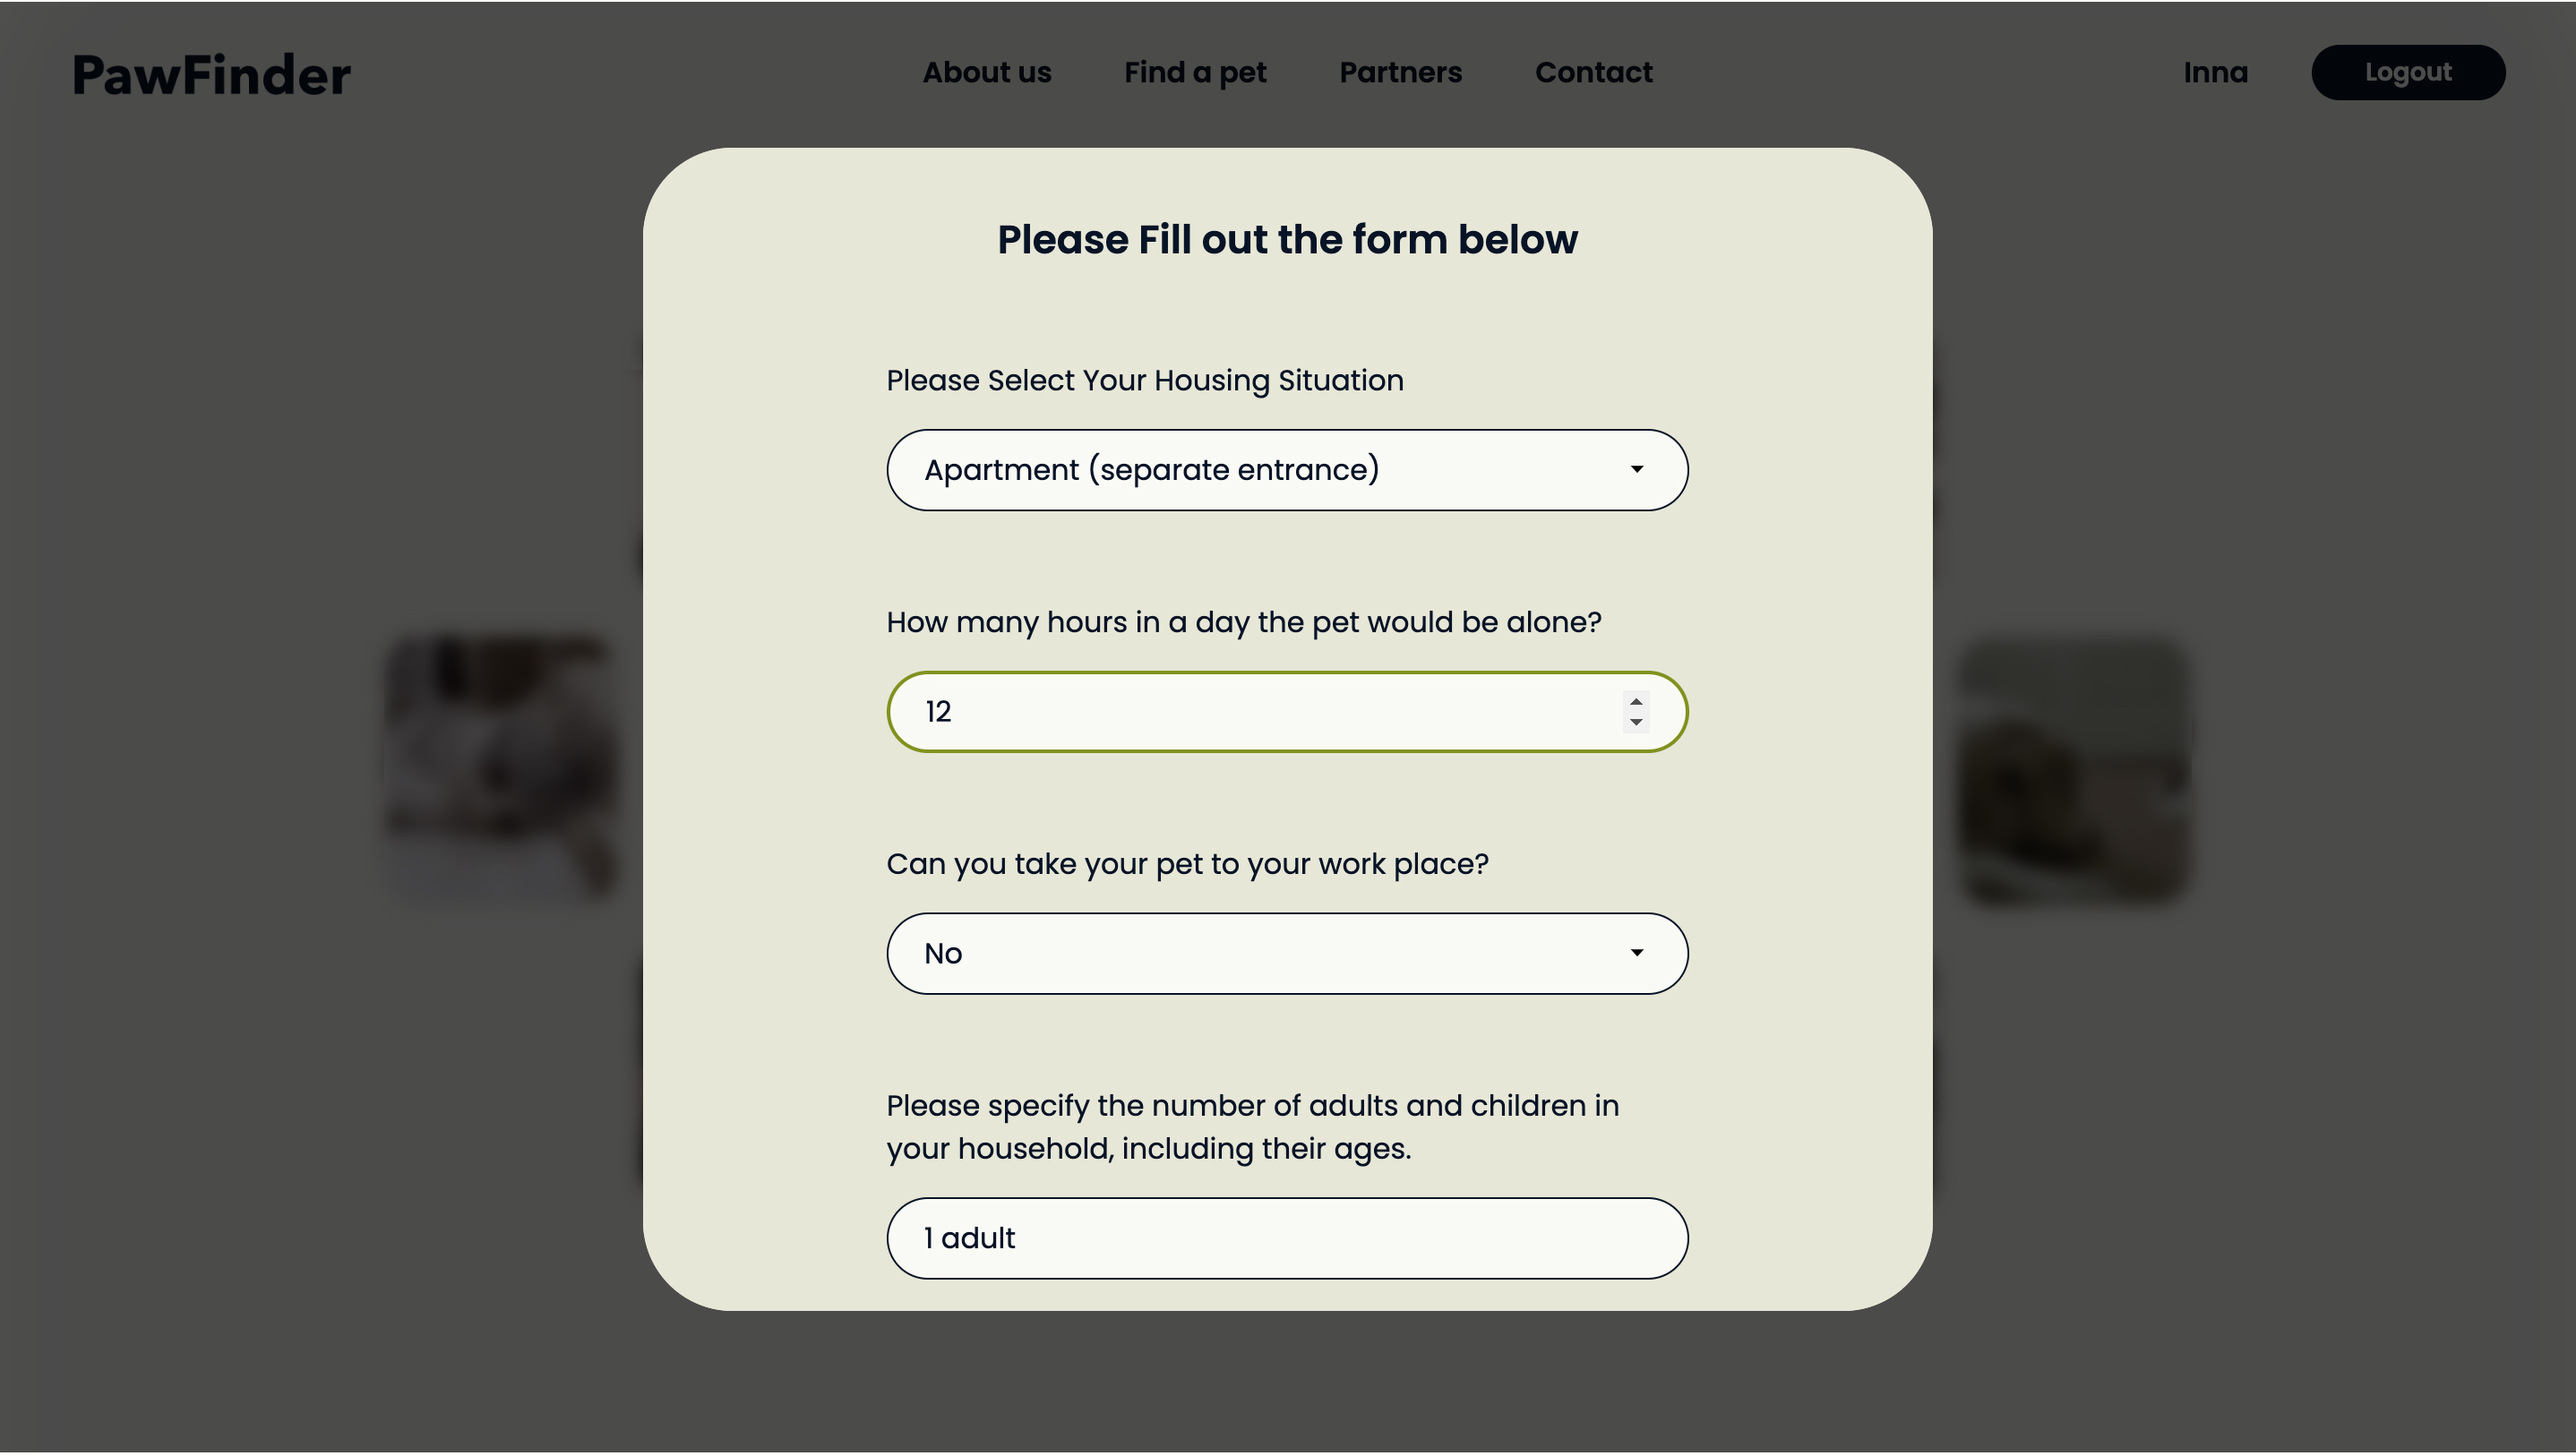
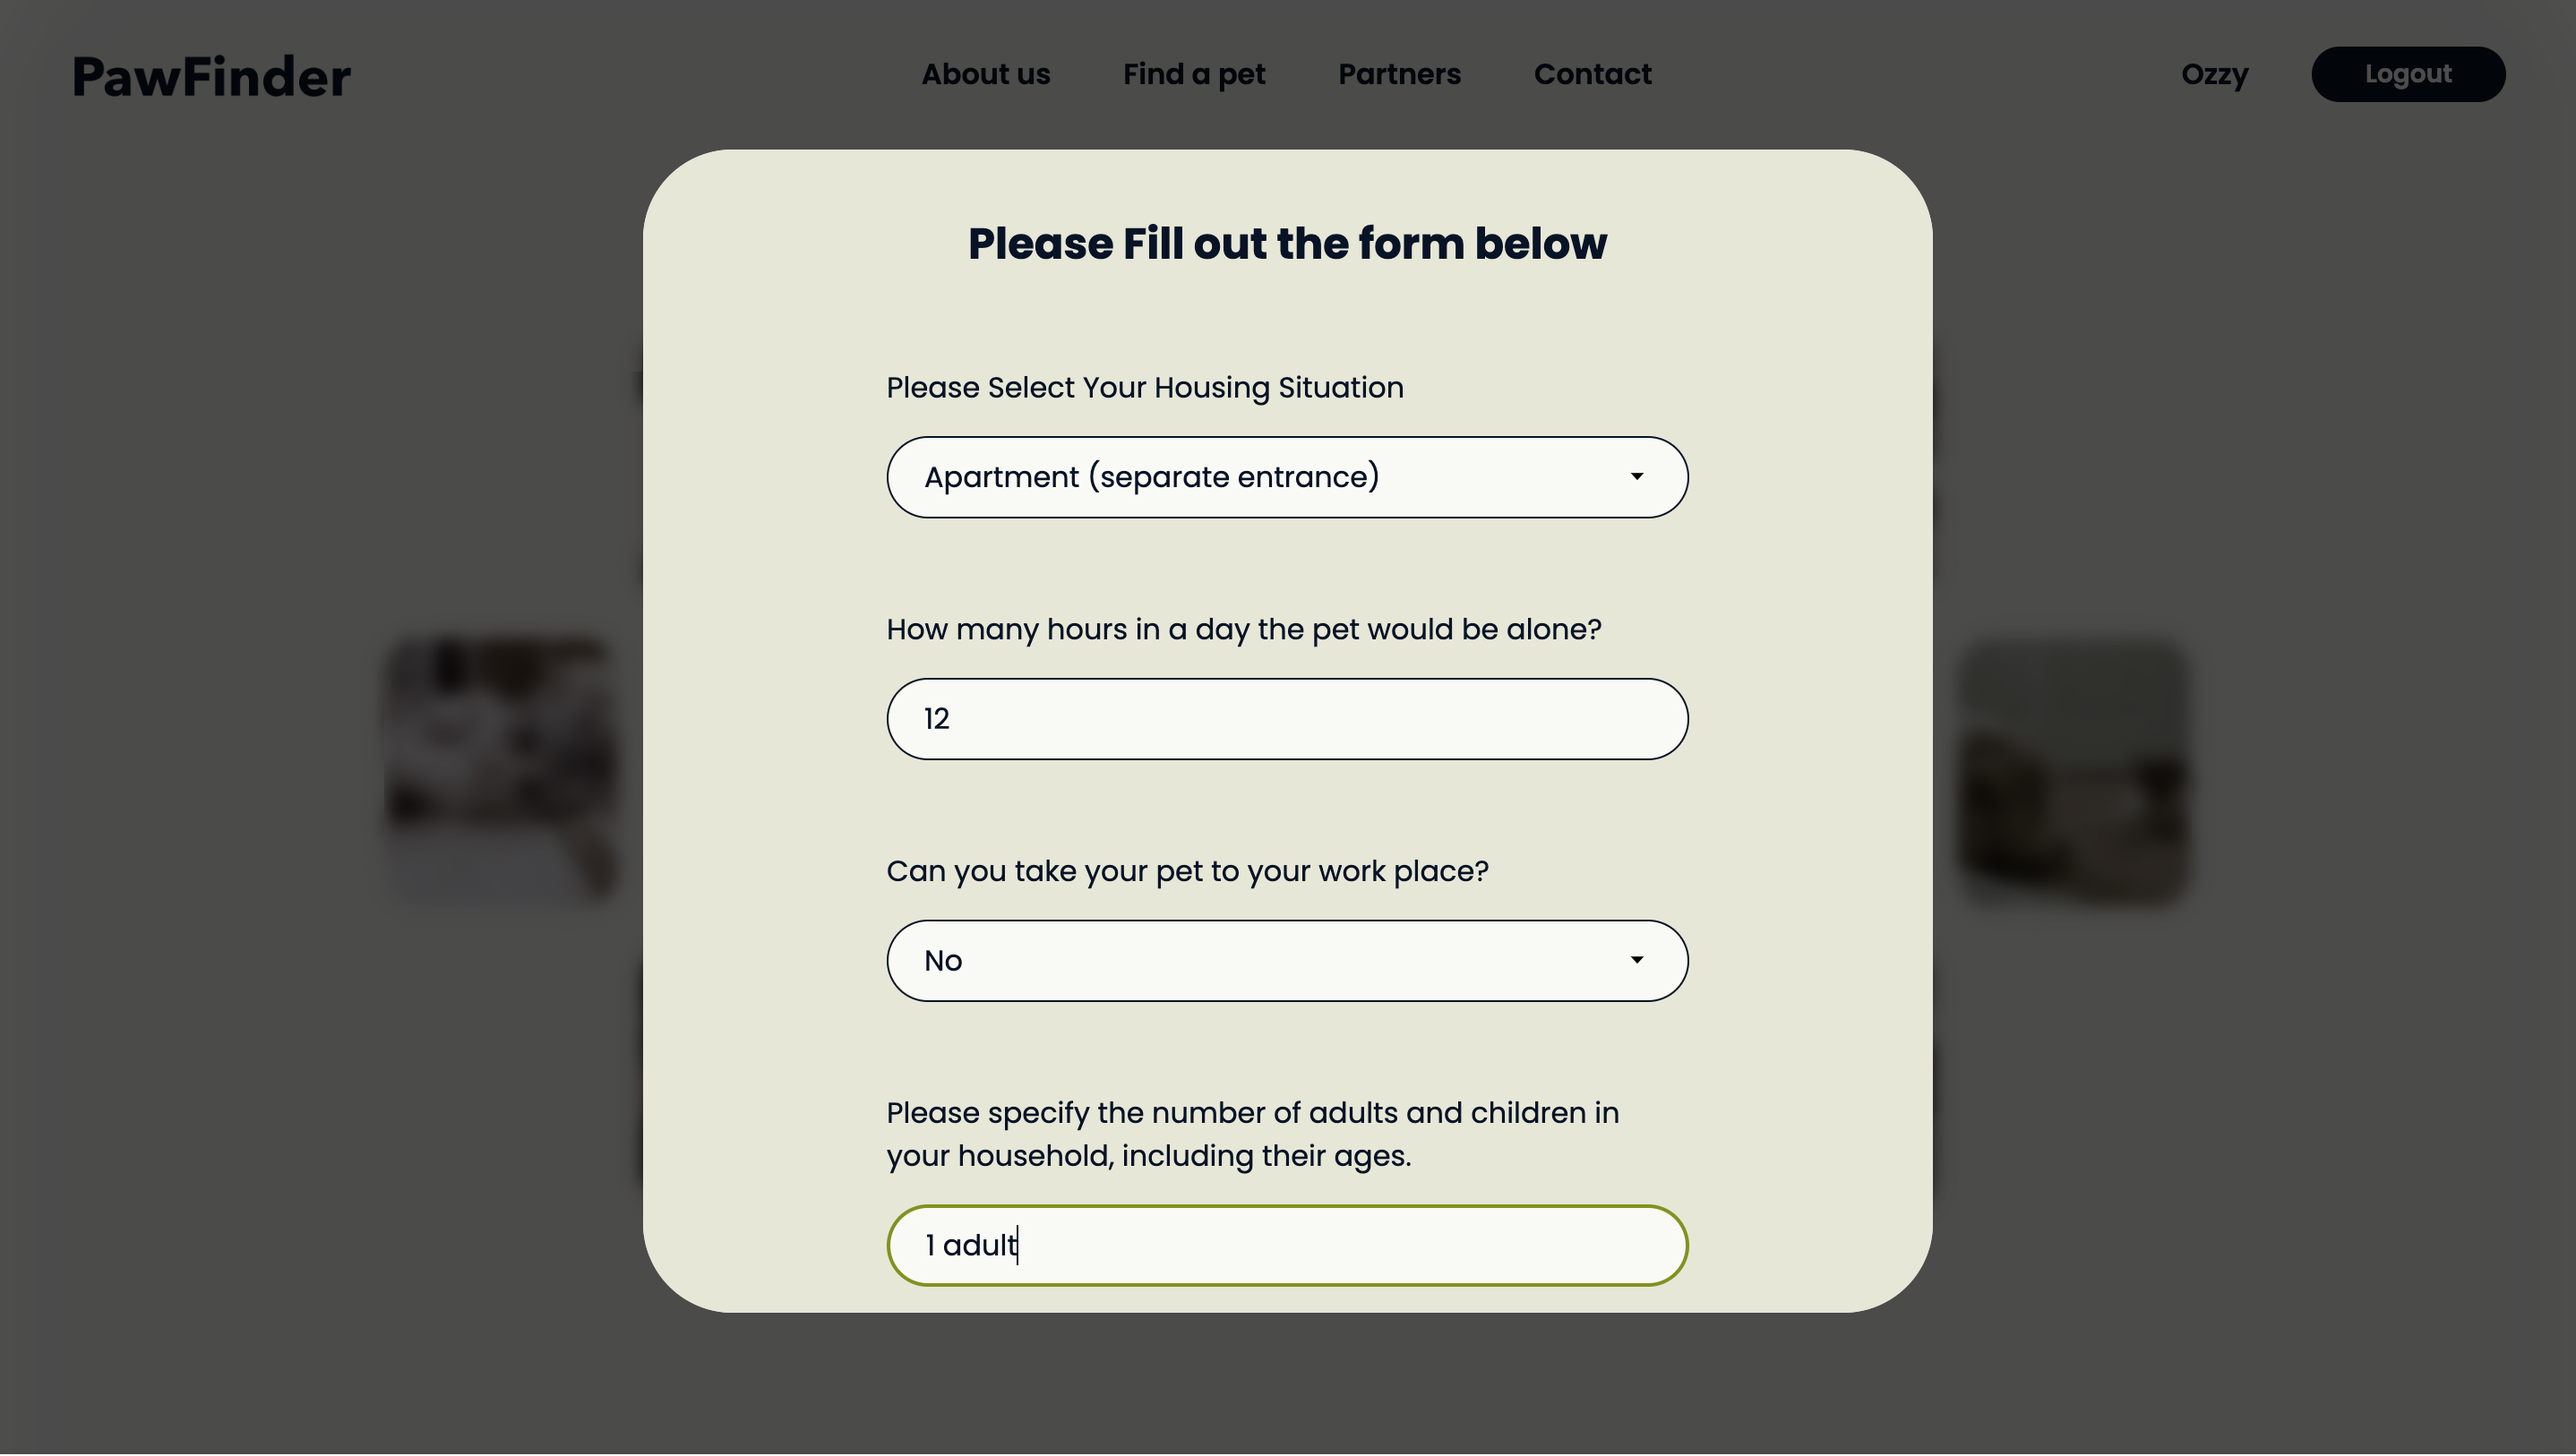
fixed screens

diff --git a/frontEnd/src/pages/Login.jsx b/frontEnd/src/pages/Login.jsx
@@ -37,7 +37,7 @@ function Login() {
   return (
     <main>
       <div className="bg-light w-[80%] md:w-[50%] my-[10rem] mx-auto p-[8rem] flex flex-col gap-[5rem] items-center rounded-[5rem] shadow-sm">
-      <h2 className="text-dark text-[22px] font-semibold -mt-4 text-center mb-6">
+      <h2 className="text-dark text-[24px] font-bold -mt-4 text-center mb-6">
           Please enter your credentials
         </h2>
         <form
@@ -104,7 +104,7 @@ function Login() {
   </button>
 </div>
         </form>
-        <h2 className="text-[2rem] font-semibold">or</h2>
+        <h2 className="text-[24px] font-semibold">or</h2>
         <button className="btn flex items-center gap-[1rem] bg-white py-[1rem] px-[2rem] text-[14px] font-medium rounded-[4rem] hover:bg-light hover:border-2 hover:border-dark -mt-6">
           <span>
             <FcGoogle className="text-[2rem]" />

diff --git a/frontEnd/src/pages/Registration.jsx b/frontEnd/src/pages/Registration.jsx
@@ -90,7 +90,7 @@ function Registration() {
   return (
     <main>
       <div className="bg-light w-[80%] md:w-[50%] my-[10rem] mx-auto p-[8rem] flex flex-col gap-[5rem] items-center rounded-[5rem] shadow-sm">
-      <h2 className="text-dark text-[22px] font-semibold -mt-4 text-center mb-6">Create your account</h2>
+      <h2 className="text-dark text-[24px] font-bold -mt-4 text-center mb-6">Create your account</h2>
         <form
           className="registerForm flex flex-col gap-[3rem] w-[100%] mx-auto text-[1.6rem]"
           onSubmit={handleSubmit}

diff --git a/frontEnd/src/components/Questionare.jsx b/frontEnd/src/components/Questionare.jsx
@@ -157,7 +157,7 @@ function Questionare() {
 
   return (
     <div className="queContainer absolute -top-[10rem] left-[25%] bg-light w-[50%]  mx-auto p-[8rem] flex flex-col gap-[5rem] items-center rounded-[5rem] shadow-sm">
-       <h2 className="text-dark text-[22px] font-semibold -mt-4 text-center mb-6">
+       <h2 className="text-dark text-[24px] font-bold -mt-4 text-center mb-6">
         Please Fill out the form below
       </h2>
       <form
